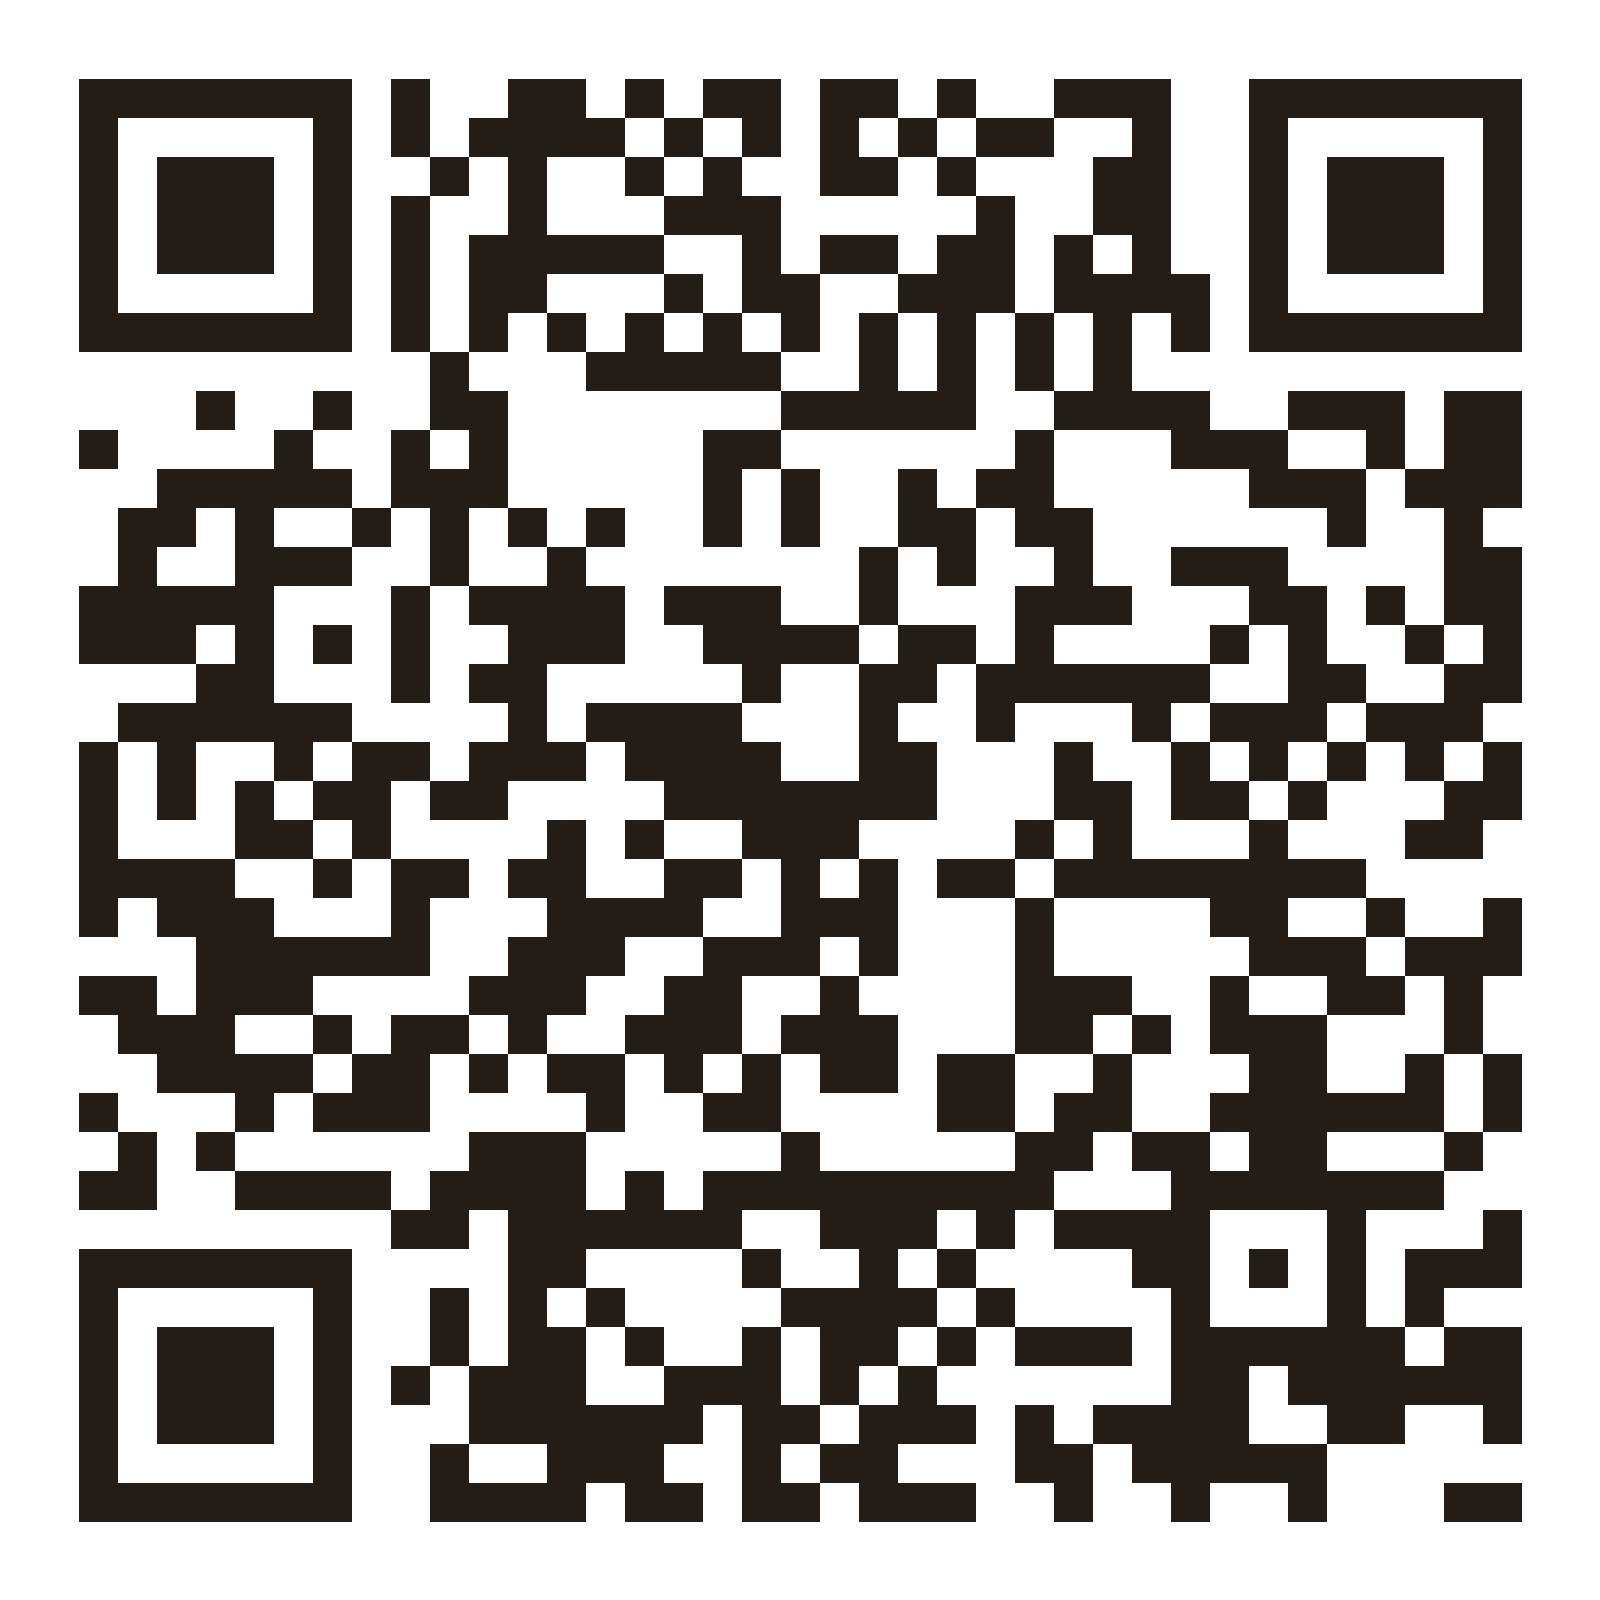
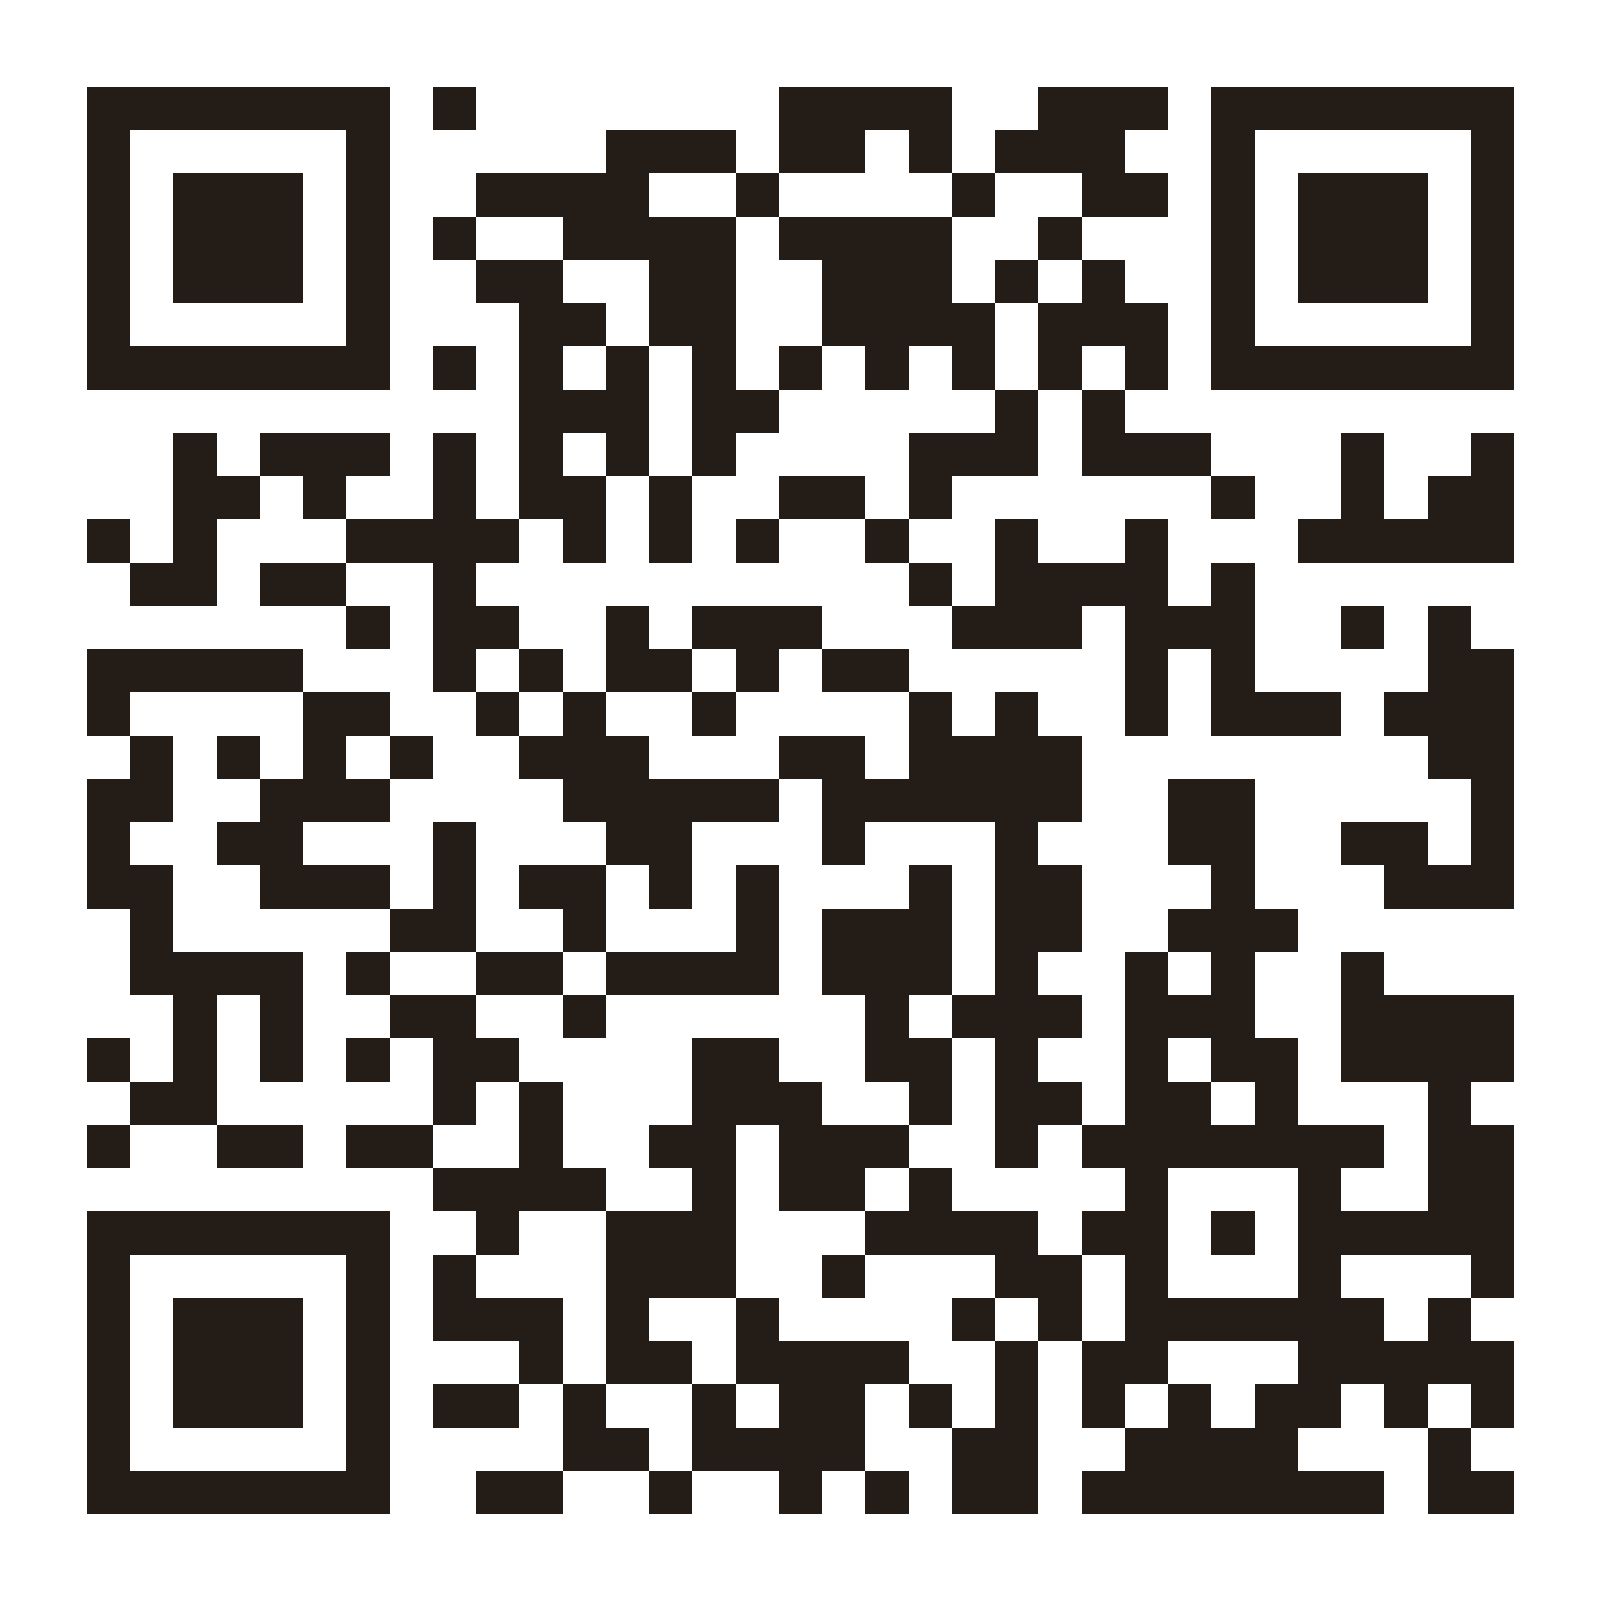
Mudar la web a la cuenta del restaurante
La web pasa a publicarse desde la cuenta MiskyRestaurant, en el repositorio
MiskyRestaurant.github.io, para que la direccion sea la del restaurante y no
la personal del desarrollador. Ademas, al ser el "sitio de usuario" de esa
cuenta, GitHub la sirve en la raiz del dominio y desaparece la subcarpeta.

    antes:  https://vannicin.github.io/misky-restaurant/
    ahora:  https://miskyrestaurant.github.io/

- QR regenerado apuntando a la direccion nueva (qr.png, qr.svg y qr-svg.ts) y
  comprobado con un lector independiente. El QR anterior deja de servir: si se
  habia impreso algo, hay que reimprimirlo.
- READMEs actualizados con la direccion nueva.
- El comentario de asset() explicaba la subcarpeta como si fuera permanente;
  ahora aclara que BASE_PATH esta vacio pero que la funcion sigue siendo
  necesaria si el sitio volviera a colgar de una subcarpeta.

diff --git a/web/src/lib/qr-svg.ts b/web/src/lib/qr-svg.ts
@@ -1,6 +1,6 @@
 // GENERADO POR scripts/generar-qr.mjs — no editar a mano.
 // Para regenerarlo: npm run qr
 
-export const QR_URL = "https://vannicin.github.io/misky-restaurant/";
+export const QR_URL = "https://miskyrestaurant.github.io/";
 
-export const QR_SVG = "<svg width=\"100%\" height=\"100%\" xmlns=\"http://www.w3.org/2000/svg\" viewBox=\"0 0 41 41\" shape-rendering=\"crispEdges\"><path fill=\"#ffffff\" d=\"M0 0h41v41H0z\"/><path stroke=\"#241c17\" d=\"M2 2.5h7m1 0h1m2 0h2m1 0h1m1 0h2m1 0h2m1 0h1m2 0h3m2 0h7M2 3.5h1m5 0h1m1 0h1m1 0h4m1 0h1m1 0h1m1 0h1m1 0h1m1 0h2m2 0h1m2 0h1m5 0h1M2 4.5h1m1 0h3m1 0h1m2 0h1m1 0h1m2 0h1m1 0h1m2 0h2m1 0h1m3 0h2m2 0h1m1 0h3m1 0h1M2 5.5h1m1 0h3m1 0h1m1 0h1m2 0h1m3 0h3m5 0h1m2 0h2m2 0h1m1 0h3m1 0h1M2 6.5h1m1 0h3m1 0h1m1 0h1m1 0h5m2 0h1m1 0h2m1 0h2m1 0h1m1 0h1m2 0h1m1 0h3m1 0h1M2 7.5h1m5 0h1m1 0h1m1 0h2m3 0h1m1 0h2m2 0h3m1 0h4m1 0h1m5 0h1M2 8.5h7m1 0h1m1 0h1m1 0h1m1 0h1m1 0h1m1 0h1m1 0h1m1 0h1m1 0h1m1 0h1m1 0h1m1 0h7M11 9.5h1m3 0h5m2 0h1m1 0h1m1 0h1m1 0h1M5 10.5h1m2 0h1m2 0h2m7 0h5m2 0h4m2 0h3m1 0h2M2 11.5h1m4 0h1m2 0h1m1 0h1m5 0h2m6 0h1m3 0h3m2 0h1m1 0h2M4 12.5h5m1 0h3m5 0h1m1 0h1m2 0h1m1 0h2m5 0h3m1 0h3M3 13.5h2m1 0h1m2 0h1m1 0h1m1 0h1m1 0h1m2 0h1m1 0h1m2 0h2m1 0h2m6 0h1m2 0h1M3 14.5h1m2 0h3m2 0h1m2 0h1m7 0h1m1 0h1m2 0h1m2 0h3m4 0h2M2 15.5h5m3 0h1m1 0h4m1 0h3m2 0h1m3 0h3m3 0h2m1 0h1m1 0h2M2 16.5h3m1 0h1m1 0h1m1 0h1m2 0h3m2 0h4m1 0h2m1 0h1m4 0h1m1 0h1m2 0h1m1 0h1M5 17.5h2m3 0h1m1 0h2m5 0h1m2 0h2m1 0h6m2 0h2m2 0h2M3 18.5h6m4 0h1m1 0h4m3 0h1m2 0h1m3 0h1m1 0h3m1 0h3M2 19.5h1m1 0h1m2 0h1m1 0h2m1 0h3m1 0h4m2 0h2m3 0h1m2 0h1m1 0h1m1 0h1m1 0h1m1 0h1M2 20.5h1m1 0h1m1 0h1m1 0h2m1 0h2m4 0h7m3 0h2m1 0h2m1 0h1m3 0h2M2 21.5h1m3 0h2m1 0h1m4 0h1m1 0h1m2 0h3m4 0h1m1 0h1m3 0h1m3 0h2M2 22.5h4m2 0h1m1 0h2m1 0h2m2 0h2m1 0h1m1 0h1m1 0h2m1 0h8M2 23.5h1m1 0h3m3 0h1m3 0h4m2 0h3m3 0h1m4 0h2m2 0h1m2 0h1M5 24.5h6m2 0h3m2 0h3m1 0h1m3 0h1m5 0h3m1 0h3M2 25.5h2m1 0h3m4 0h3m2 0h2m2 0h1m4 0h3m2 0h1m2 0h2m1 0h1M3 26.5h3m2 0h1m1 0h2m1 0h1m2 0h3m1 0h3m3 0h2m1 0h1m1 0h3m3 0h1M4 27.5h4m1 0h2m1 0h1m1 0h2m1 0h1m1 0h1m1 0h2m1 0h2m2 0h1m3 0h2m2 0h1m1 0h1M2 28.5h1m3 0h1m1 0h3m4 0h1m2 0h2m4 0h2m1 0h2m2 0h6m1 0h1M3 29.5h1m1 0h1m6 0h3m5 0h1m5 0h2m1 0h2m1 0h2m3 0h1M2 30.5h2m2 0h4m1 0h4m1 0h1m1 0h9m3 0h7M10 31.5h2m1 0h6m2 0h3m1 0h1m1 0h4m3 0h1m3 0h1M2 32.5h7m4 0h2m4 0h1m2 0h1m1 0h1m4 0h2m1 0h1m1 0h1m1 0h3M2 33.5h1m5 0h1m2 0h1m1 0h1m1 0h1m4 0h4m1 0h1m4 0h1m3 0h1m1 0h1M2 34.5h1m1 0h3m1 0h1m2 0h1m1 0h2m1 0h1m2 0h1m1 0h2m1 0h1m1 0h3m1 0h6m1 0h2M2 35.5h1m1 0h3m1 0h1m1 0h1m1 0h3m2 0h3m1 0h1m1 0h1m6 0h2m1 0h6M2 36.5h1m1 0h3m1 0h1m3 0h6m1 0h2m1 0h3m1 0h1m1 0h4m2 0h2m2 0h1M2 37.5h1m5 0h1m2 0h1m2 0h3m2 0h1m1 0h2m3 0h2m1 0h5M2 38.5h7m2 0h4m1 0h2m1 0h2m1 0h3m2 0h1m2 0h1m2 0h1m3 0h2\"/></svg>\n";
+export const QR_SVG = "<svg width=\"100%\" height=\"100%\" xmlns=\"http://www.w3.org/2000/svg\" viewBox=\"0 0 37 37\" shape-rendering=\"crispEdges\"><path fill=\"#ffffff\" d=\"M0 0h37v37H0z\"/><path stroke=\"#241c17\" d=\"M2 2.5h7m1 0h1m7 0h4m2 0h3m1 0h7M2 3.5h1m5 0h1m5 0h3m1 0h2m1 0h1m1 0h3m2 0h1m5 0h1M2 4.5h1m1 0h3m1 0h1m2 0h4m2 0h1m4 0h1m2 0h2m1 0h1m1 0h3m1 0h1M2 5.5h1m1 0h3m1 0h1m1 0h1m2 0h4m1 0h4m2 0h1m3 0h1m1 0h3m1 0h1M2 6.5h1m1 0h3m1 0h1m2 0h2m2 0h2m2 0h3m1 0h1m1 0h1m2 0h1m1 0h3m1 0h1M2 7.5h1m5 0h1m3 0h2m1 0h2m2 0h4m1 0h3m1 0h1m5 0h1M2 8.5h7m1 0h1m1 0h1m1 0h1m1 0h1m1 0h1m1 0h1m1 0h1m1 0h1m1 0h1m1 0h7M12 9.5h3m1 0h2m5 0h1m1 0h1M4 10.5h1m1 0h3m1 0h1m1 0h1m1 0h1m1 0h1m4 0h3m1 0h3m3 0h1m2 0h1M4 11.5h2m1 0h1m2 0h1m1 0h2m1 0h1m2 0h2m1 0h1m6 0h1m2 0h1m1 0h2M2 12.5h1m1 0h1m3 0h4m1 0h1m1 0h1m1 0h1m2 0h1m2 0h1m2 0h1m3 0h5M3 13.5h2m1 0h2m2 0h1m10 0h1m1 0h4m1 0h1M8 14.5h1m1 0h2m2 0h1m1 0h3m3 0h3m1 0h3m2 0h1m1 0h1M2 15.5h5m3 0h1m1 0h1m1 0h2m1 0h1m1 0h2m5 0h1m1 0h1m4 0h2M2 16.5h1m4 0h2m2 0h1m1 0h1m2 0h1m4 0h1m1 0h1m2 0h1m1 0h3m1 0h3M3 17.5h1m1 0h1m1 0h1m1 0h1m2 0h3m3 0h2m1 0h4m8 0h2M2 18.5h2m2 0h3m4 0h5m1 0h6m2 0h2m5 0h1M2 19.5h1m2 0h2m3 0h1m3 0h2m3 0h1m3 0h1m3 0h2m2 0h2m1 0h1M2 20.5h2m2 0h3m1 0h1m1 0h2m1 0h1m1 0h1m3 0h1m1 0h2m3 0h1m3 0h3M3 21.5h1m5 0h2m2 0h1m3 0h1m1 0h3m1 0h2m2 0h3M3 22.5h4m1 0h1m2 0h2m1 0h4m1 0h3m1 0h1m2 0h1m1 0h1m2 0h1M4 23.5h1m1 0h1m2 0h2m2 0h1m6 0h1m1 0h3m1 0h3m2 0h4M2 24.5h1m1 0h1m1 0h1m1 0h1m1 0h2m4 0h2m2 0h2m1 0h1m2 0h1m1 0h2m1 0h4M3 25.5h2m5 0h1m1 0h1m3 0h3m2 0h1m1 0h2m1 0h2m1 0h1m3 0h1M2 26.5h1m2 0h2m1 0h2m2 0h1m2 0h2m1 0h3m2 0h1m1 0h7m1 0h2M10 27.5h4m2 0h1m1 0h2m1 0h1m4 0h1m3 0h1m2 0h2M2 28.5h7m2 0h1m2 0h3m3 0h4m1 0h2m1 0h1m1 0h5M2 29.5h1m5 0h1m1 0h1m3 0h3m2 0h1m3 0h2m1 0h1m3 0h1m3 0h1M2 30.5h1m1 0h3m1 0h1m1 0h3m1 0h1m2 0h1m4 0h1m1 0h1m1 0h6m1 0h1M2 31.5h1m1 0h3m1 0h1m3 0h1m1 0h2m1 0h4m2 0h1m1 0h2m3 0h5M2 32.5h1m1 0h3m1 0h1m1 0h2m1 0h1m2 0h1m1 0h2m1 0h1m1 0h1m1 0h1m1 0h1m1 0h2m1 0h1m1 0h1M2 33.5h1m5 0h1m4 0h2m1 0h4m2 0h2m2 0h4m3 0h1M2 34.5h7m2 0h2m2 0h1m2 0h1m1 0h1m1 0h2m1 0h7m1 0h2\"/></svg>\n";

diff --git a/web/src/lib/asset.ts b/web/src/lib/asset.ts
@@ -1,15 +1,19 @@
 /**
  * Rutas a ficheros de `public/`.
  *
- * En GitHub Pages la web no cuelga de la raíz del dominio sino de una
- * subcarpeta (`https://vannicin.github.io/misky-restaurant/`). Next.js añade
- * esa subcarpeta automáticamente a sus propios ficheros (`/_next/...`), pero
- * NO a las imágenes de `public/` que referenciamos a mano. Por eso todas las
- * rutas a `public/` deben pasar por `asset()`.
+ * Hoy la web se publica en la raíz del dominio
+ * (`https://miskyrestaurant.github.io/`), así que `BASE_PATH` está vacío y
+ * `asset()` devuelve la ruta tal cual. Pero si el sitio pasara a colgar de una
+ * subcarpeta —basta con que cambie el nombre del repositorio— haría falta
+ * anteponerla: Next.js se la añade sola a sus propios ficheros (`/_next/...`),
+ * pero NO a las imágenes de `public/` que referenciamos a mano, y todas
+ * quedarían en 404.
+ *
+ * Para que eso no vuelva a pasar, toda ruta a `public/` pasa por aquí:
  *
  *   asset("/images/misky-2.jpeg")
- *     → "/images/misky-2.jpeg"                    en local
- *     → "/misky-restaurant/images/misky-2.jpeg"   en GitHub Pages
+ *     → "/images/misky-2.jpeg"                 sirviendo en la raíz
+ *     → "/subcarpeta/images/misky-2.jpeg"      sirviendo bajo una subcarpeta
  */
 
 /** Subcarpeta bajo la que se publica el sitio. Vacía si cuelga de la raíz. */

diff --git a/web/README.md b/web/README.md
@@ -6,8 +6,8 @@ Es una web **estática**: se compila a ficheros HTML, CSS, JS e imágenes y se
 publica en **GitHub Pages**, gratis. No hay servidor, ni base de datos, ni
 Docker. Este README es el único documento de referencia.
 
-- **Web publicada:** https://vannicin.github.io/misky-restaurant/
-- **Cartel del QR:** https://vannicin.github.io/misky-restaurant/qr/
+- **Web publicada:** https://miskyrestaurant.github.io/
+- **Cartel del QR:** https://miskyrestaurant.github.io/qr/
 
 ---
 
@@ -136,7 +136,7 @@ se sigue leyendo aunque el papel se manche o se raye.
 | `public/qr.svg` | Vectorial — escala a cualquier tamaño sin pixelarse |
 | `/qr` (página web) | Cartel A4 listo para imprimir, con logo y dirección |
 
-Para imprimirlo: entra en https://vannicin.github.io/misky-restaurant/qr/ y
+Para imprimirlo: entra en https://miskyrestaurant.github.io/qr/ y
 pulsa **Imprimir el cartel**.
 
 Si algún día cambia la dirección de la web, hay que regenerar el QR:
@@ -166,9 +166,10 @@ npm run build     # genera la carpeta out/
 npx serve out     # sírvela en http://localhost:3000
 ```
 
-> En local la web se sirve en la raíz (`/`). En GitHub Pages cuelga de
-> `/misky-restaurant/`; de eso se encarga automáticamente la variable
-> `NEXT_PUBLIC_BASE_PATH` que pone el workflow al compilar.
+> El repositorio se llama `MiskyRestaurant.github.io`, así que GitHub sirve la
+> web en la raíz del dominio, igual que en local. Si algún día se moviera a un
+> repositorio con otro nombre, colgaría de una subcarpeta; de eso se encargaría
+> sola la variable `NEXT_PUBLIC_BASE_PATH` que el workflow calcula al compilar.
 
 ---
 
@@ -182,7 +183,7 @@ Si Pages aún no está activado en el repositorio:
    Desplegar la web → Run workflow**).
 
 En 1–2 minutos la web estará en
-https://vannicin.github.io/misky-restaurant/.
+https://miskyrestaurant.github.io/.
 
 ### Usar un dominio propio (opcional)
 
@@ -196,7 +197,7 @@ alojamiento en Pages sigue siendo gratis.
    A     @    185.199.109.153
    A     @    185.199.110.153
    A     @    185.199.111.153
-   CNAME www  vannicin.github.io.
+   CNAME www  miskyrestaurant.github.io.
    ```
 
 2. En **Settings → Pages → Custom domain**, escribe el dominio y guarda.

diff --git a/README.md b/README.md
@@ -2,8 +2,8 @@
 
 Web del restaurante **Misky Peruvian Cuisines** — Battle Creek, Michigan.
 
-🌐 **https://vannicin.github.io/misky-restaurant/**
-📱 **Cartel del QR para imprimir:** https://vannicin.github.io/misky-restaurant/qr/
+🌐 **https://miskyrestaurant.github.io/**
+📱 **Cartel del QR para imprimir:** https://miskyrestaurant.github.io/qr/
 
 Es un sitio estático publicado gratis en GitHub Pages. Cada push a `main`
 lo recompila y lo publica automáticamente.
